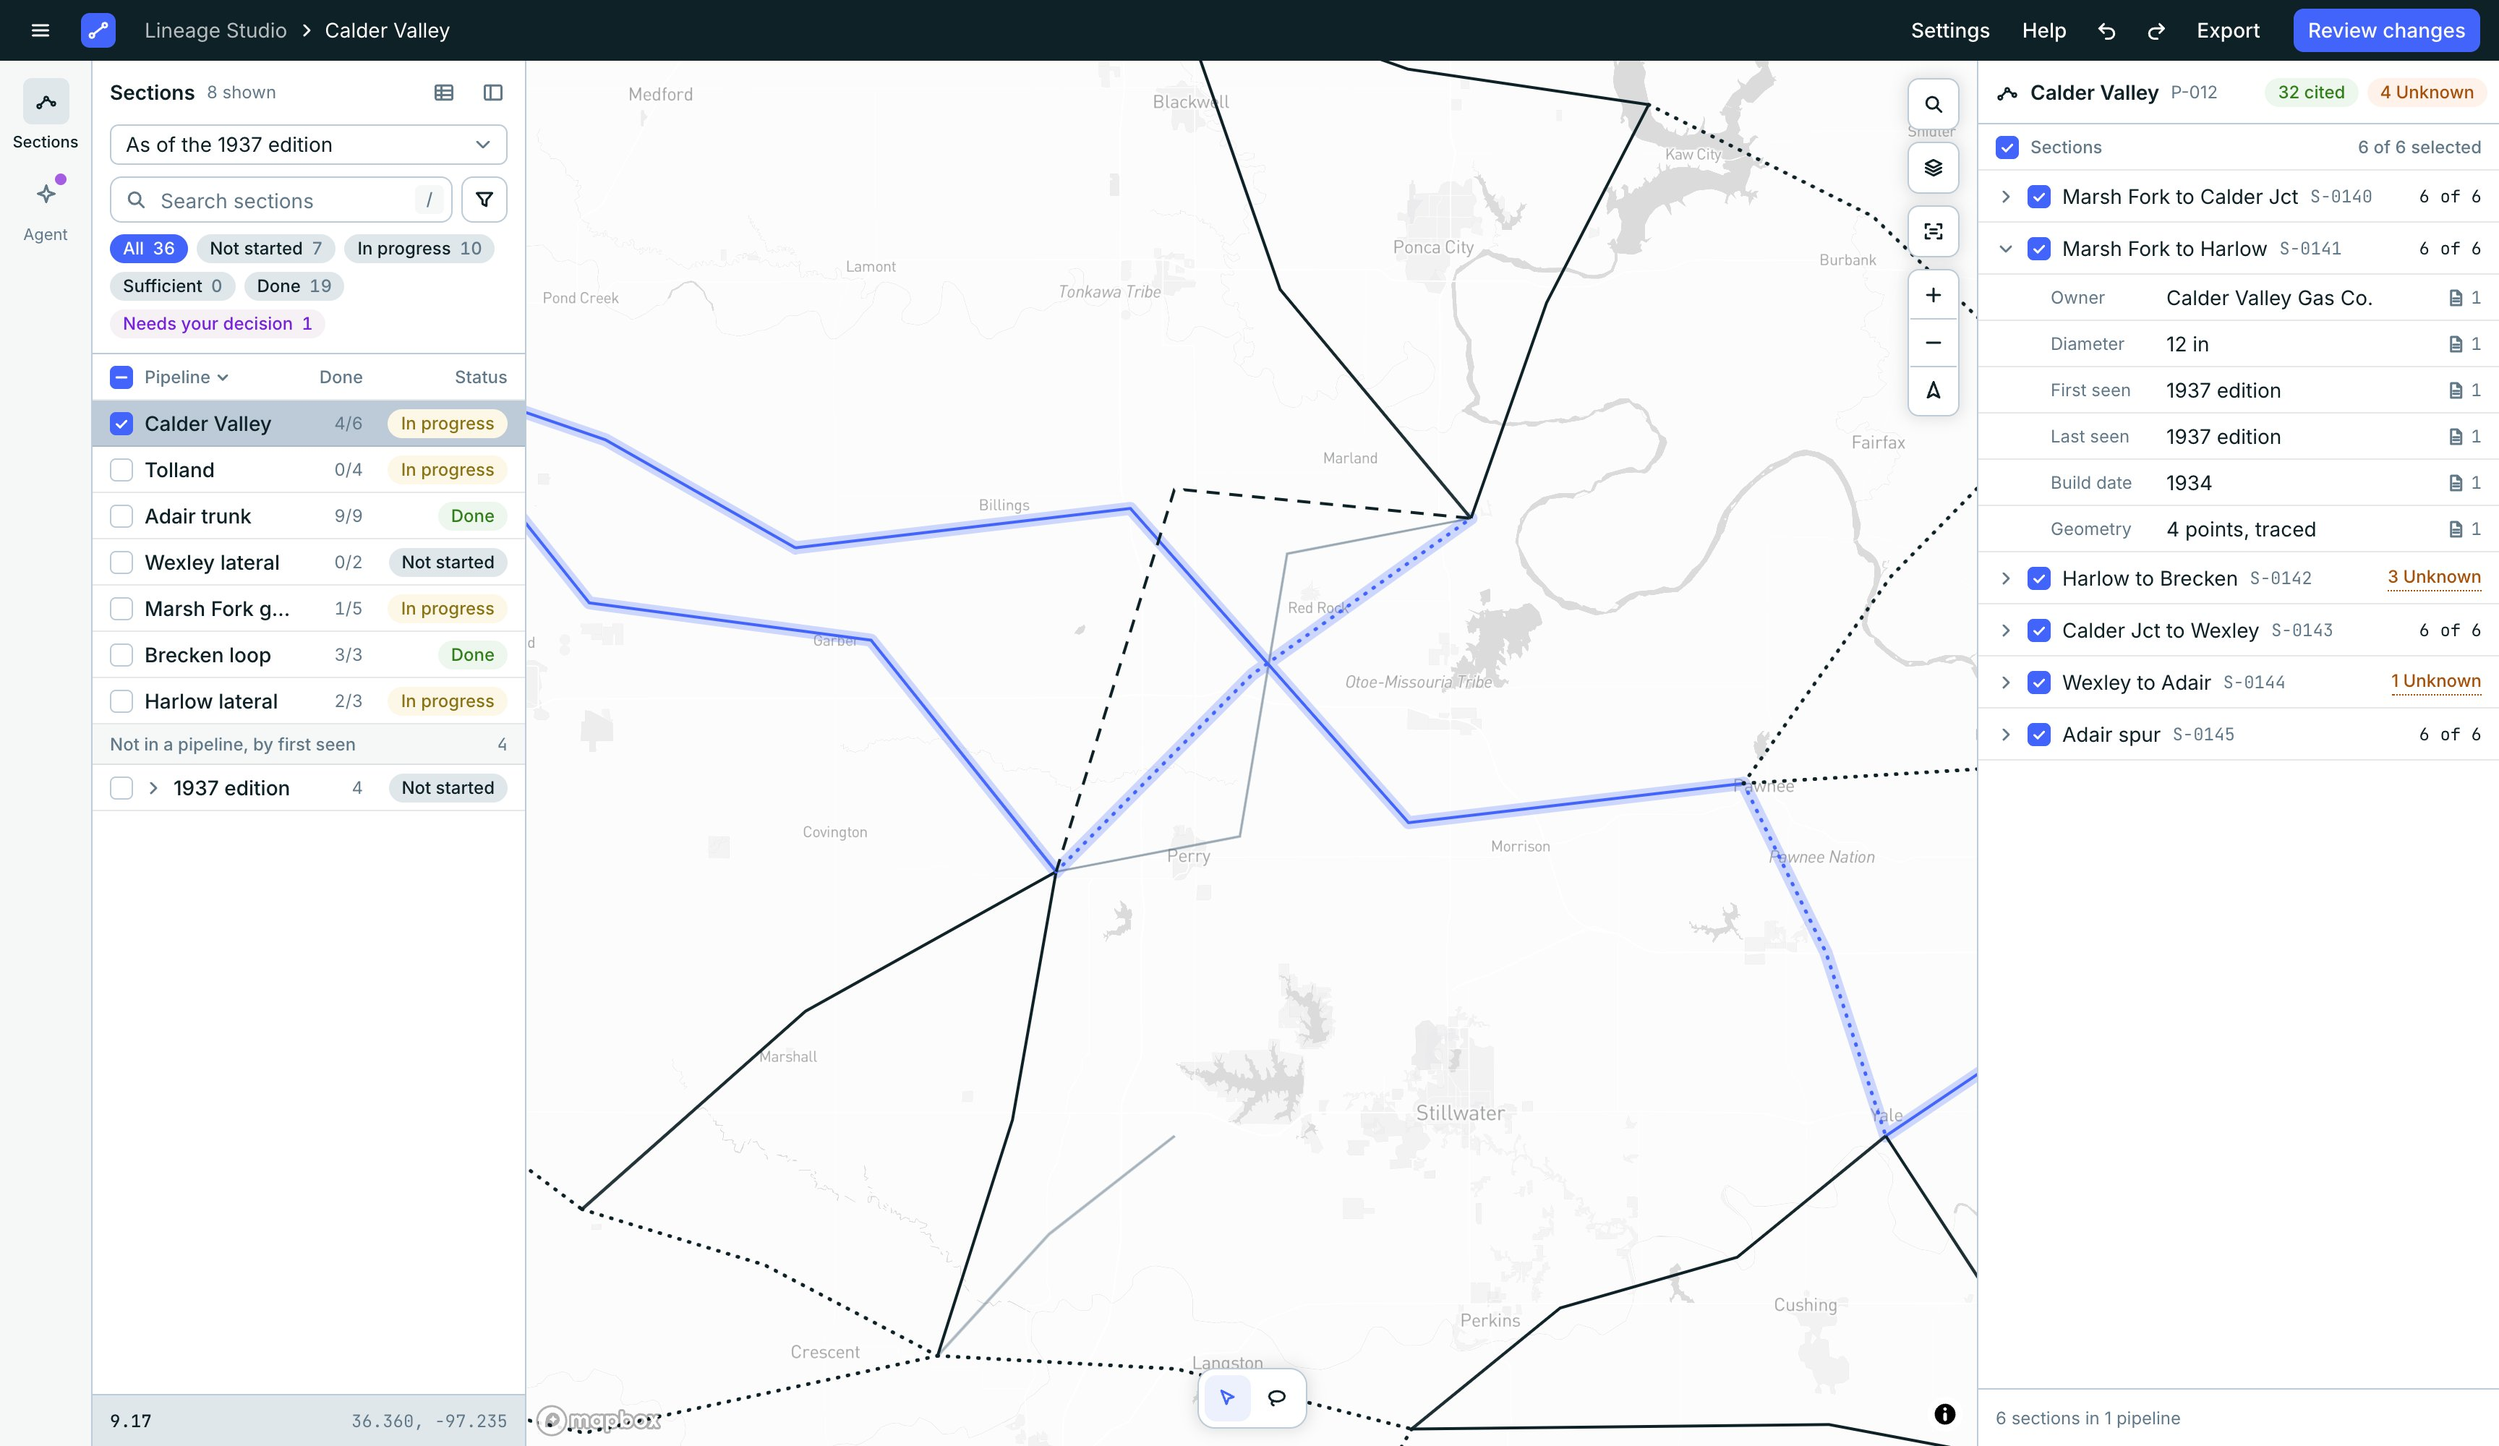
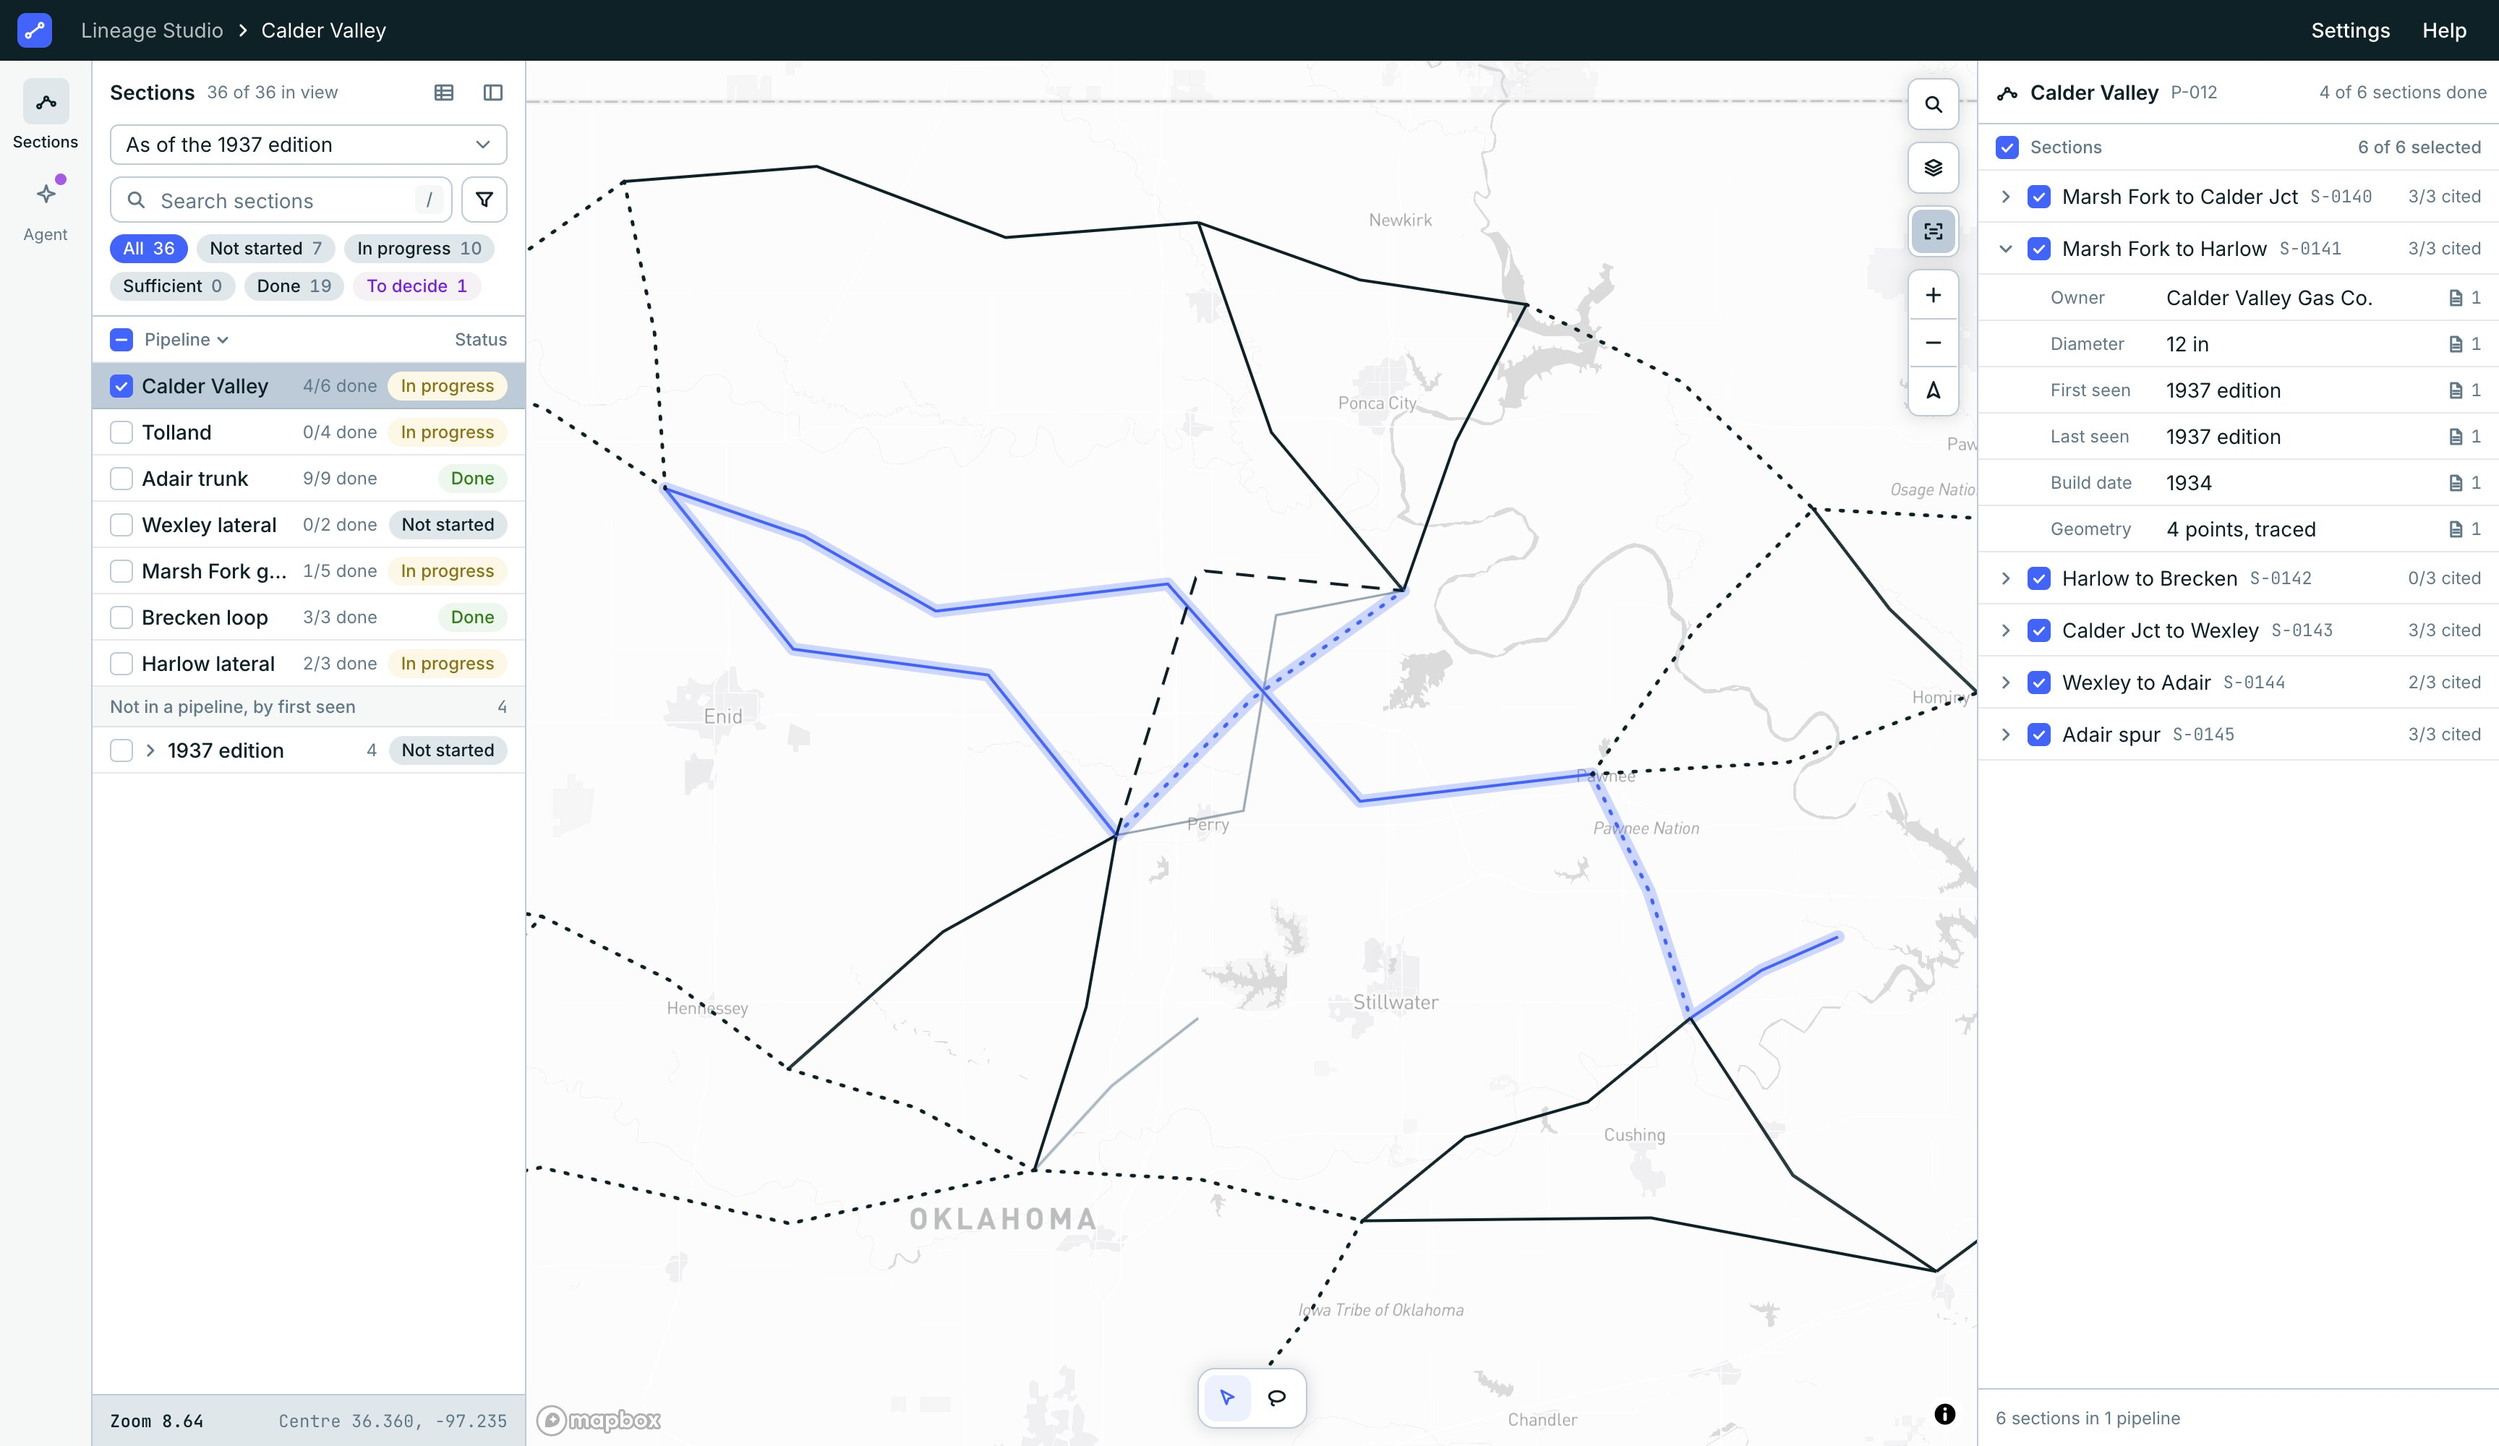
docs: README screenshots and text for the polish pass
Retaken on the sample: the top bar with Settings and Help only, progress
with its noun, the counts on two rows. The right panel's progress reads
in the list's type, and a cut section name shows in full on hover.

diff --git a/frontend/src/components/tree-item.tsx b/frontend/src/components/tree-item.tsx
@@ -64,11 +64,18 @@ export function TreeItem({
         label={checkLabel}
         onChange={onCheck}
       />
-      <span className="truncate type-ui-sm">{name}</span>
+      <span
+        // A name cut short can still be read in full.
+        title={typeof name === "string" ? name : undefined}
+        className="truncate type-ui-sm"
+      >
+        {name}
+      </span>
       <span className="shrink-0 type-ui-mono-xs text-muted-foreground">
         {code}
       </span>
-      <span className="ml-auto flex shrink-0 items-center type-ui-mono-xs">
+      {/* Progress reads as it does in the list: "2/3 cited". */}
+      <span className="ml-auto flex shrink-0 items-center type-ui-xs whitespace-nowrap text-muted-foreground tabular-nums">
         {trailing}
       </span>
     </div>

diff --git a/README.md b/README.md
@@ -38,21 +38,26 @@ Traced pipeline sections on a map, with the claims recorded about each one and t
   from its claims: sufficient when the required attributes (Owner, Diameter and Build
   date unless Settings says otherwise) are cited, done when it is also in a pipeline.
 - **List.** Pipelines, then the sections in no pipeline, grouped by the map edition that
-  first shows them. Counts by status above the list are one-click filters. A filter
+  first shows them. A pipeline says how many of its sections are done ("4/6 done").
+  Counts by status above the list cover the whole edition and are one-click filters;
+  moving the map never changes them. A filter
   button beside the search opens company, build date, date added and which claims are
   Unknown. Search by pipeline, section, code or value.
 - **Table.** Drag the list wider, or press the table button, and it adds the code, the
-  section count, the split by status and a column per required attribute.
+  section count, the split by status and a column per required attribute. The table
+  holds the whole edition, whatever the map shows.
 - **Edition.** One select at the top of the list: the year the network is shown as of.
 - **Map.** One line per section, solid or dotted by its status. A layers button holds
   what the map draws and the line key; another makes the list follow the map or not.
+  When it follows, the list header says how much is in view ("8 of 36 in view").
 - **Link.** The edition, status, filters, search, map position and the one section in
   focus are in the address bar, so a copied link opens the same view.
 - **Settings.** Which attributes must be cited, and which statuses are drawn solid. Kept
   in the browser.
 - **Selection.** Tick rows, click lines or draw a lasso loop. It can span pipelines. The
-  right panel lists the selected sections by pipeline, and each section's claims with
-  their sources.
+  right panel lists the selected sections by pipeline, each with its required claims
+  cited ("2/3 cited"). Click a section to read its claims and their sources; that does
+  not change the selection, and the map draws the section being read heavier.
 - **Agent panel.** Takes a selection as attachments to a message. Nothing is sent.
 - **Panel button.** Hides both side panels; the same button on the map brings them back.
 - **Help.** A ten-step tour of the screen starts on a first visit; Help in the top bar
